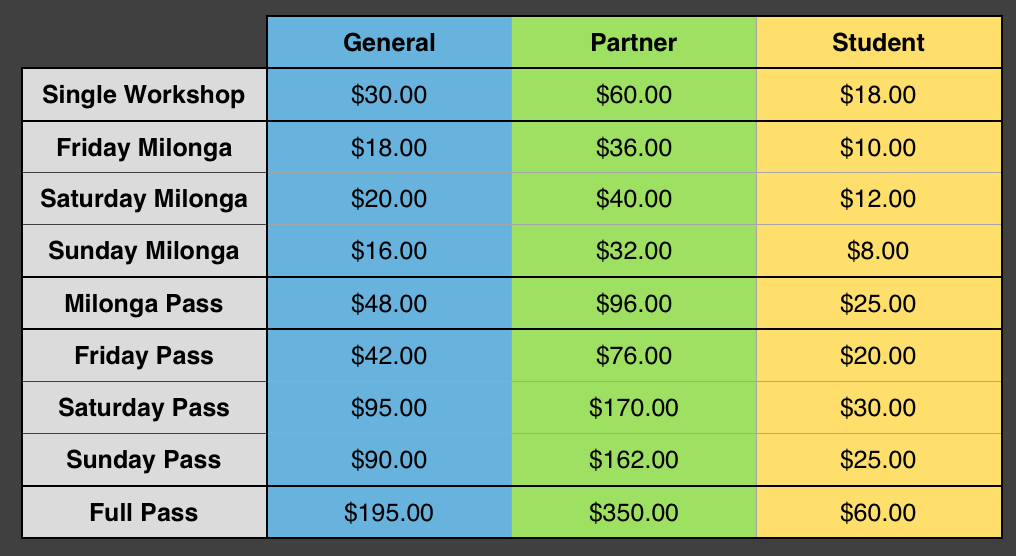
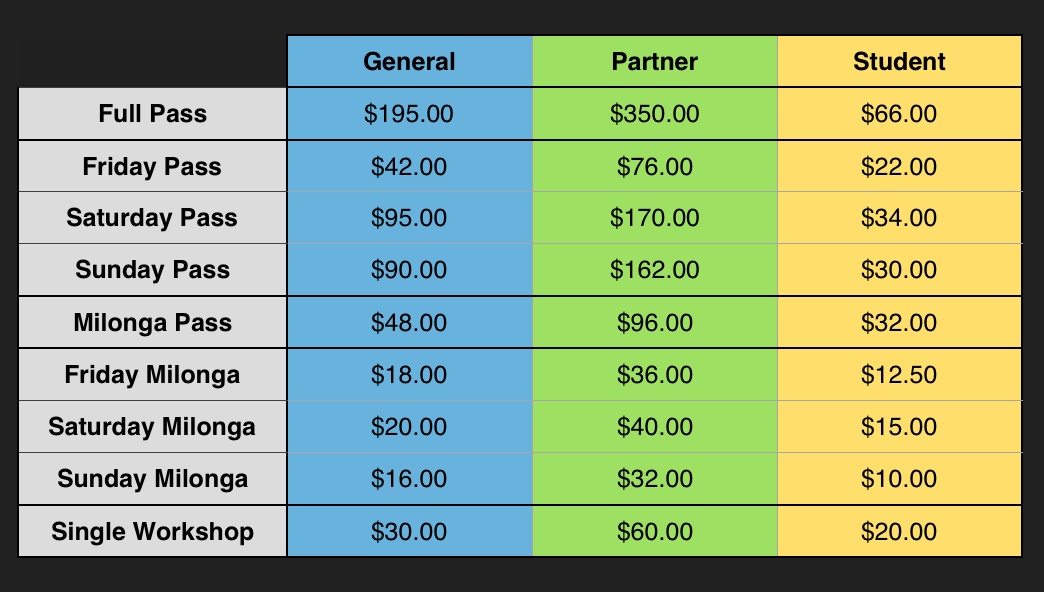
registration switch - early to late

diff --git a/register.html b/register.html
@@ -90,7 +90,7 @@ Released   : 20130731
                         <br/>
                         -->
                         <div style="text-align: center;">
-                            <img src="images/prices/early_16_with_end_date.png" width="80%" />
+                            <img src="images/prices/late_prices_16.png" width="80%" />
                         </div>
                     </div>
     </div>

diff --git a/request.php b/request.php
@@ -8,7 +8,7 @@
     $day2 = array("min" => 8, "max" => 17);
     $day3 = array("min" => 22, "max" => 31);
     // price toggle
-    $early_registration = true;
+    $early_registration = false;
 
     // all prices (general, partner (general), student, partner (student)
     if ($early_registration) {
@@ -26,17 +26,17 @@
         $full_pass = array(170, 310, 60, 120);
     } else {
         // LATE PRICES
-        $single_workshops = array(27, 54, 18, 36);
-        $friday_milongas = array(16, 32, 10, 20);
-        $saturday_milongas = array(18, 36, 12, 24);
-        $sunday_milongas = array(15, 30, 8, 16);
-        $milonga_pass = array(45, 90, 25, 50);
-        $friday_pass = array(36, 66, 20, 40);
-        $saturday_pass = array(82, 148, 30, 60);
-        $sunday_pass = array(78, 140, 25, 50);
-        $yoga = array(10, 20, 5, 10);
-        $milonga_pass_discount = array(4, 8, 5, 10);
-        $full_pass = array(170, 310, 60, 120);
+        $single_workshops = array(30, 60, 20, 40);
+        $friday_milongas = array(18, 36, 12.50, 25);
+        $saturday_milongas = array(20, 40, 15, 30);
+        $sunday_milongas = array(16, 32, 10, 20);
+        $milonga_pass = array(48, 96, 32, 64);
+        $friday_pass = array(42, 76, 22, 44);
+        $saturday_pass = array(95, 170, 34, 68);
+        $sunday_pass = array(90, 162, 30, 60);
+        $yoga = array(12, 24, 7, 14);
+        $milonga_pass_discount = array(6, 12, 5.5, 11);
+        $full_pass = array(195, 350, 66, 132);
     }
     $all_prices = array("single_workshops" => $single_workshops,
 
